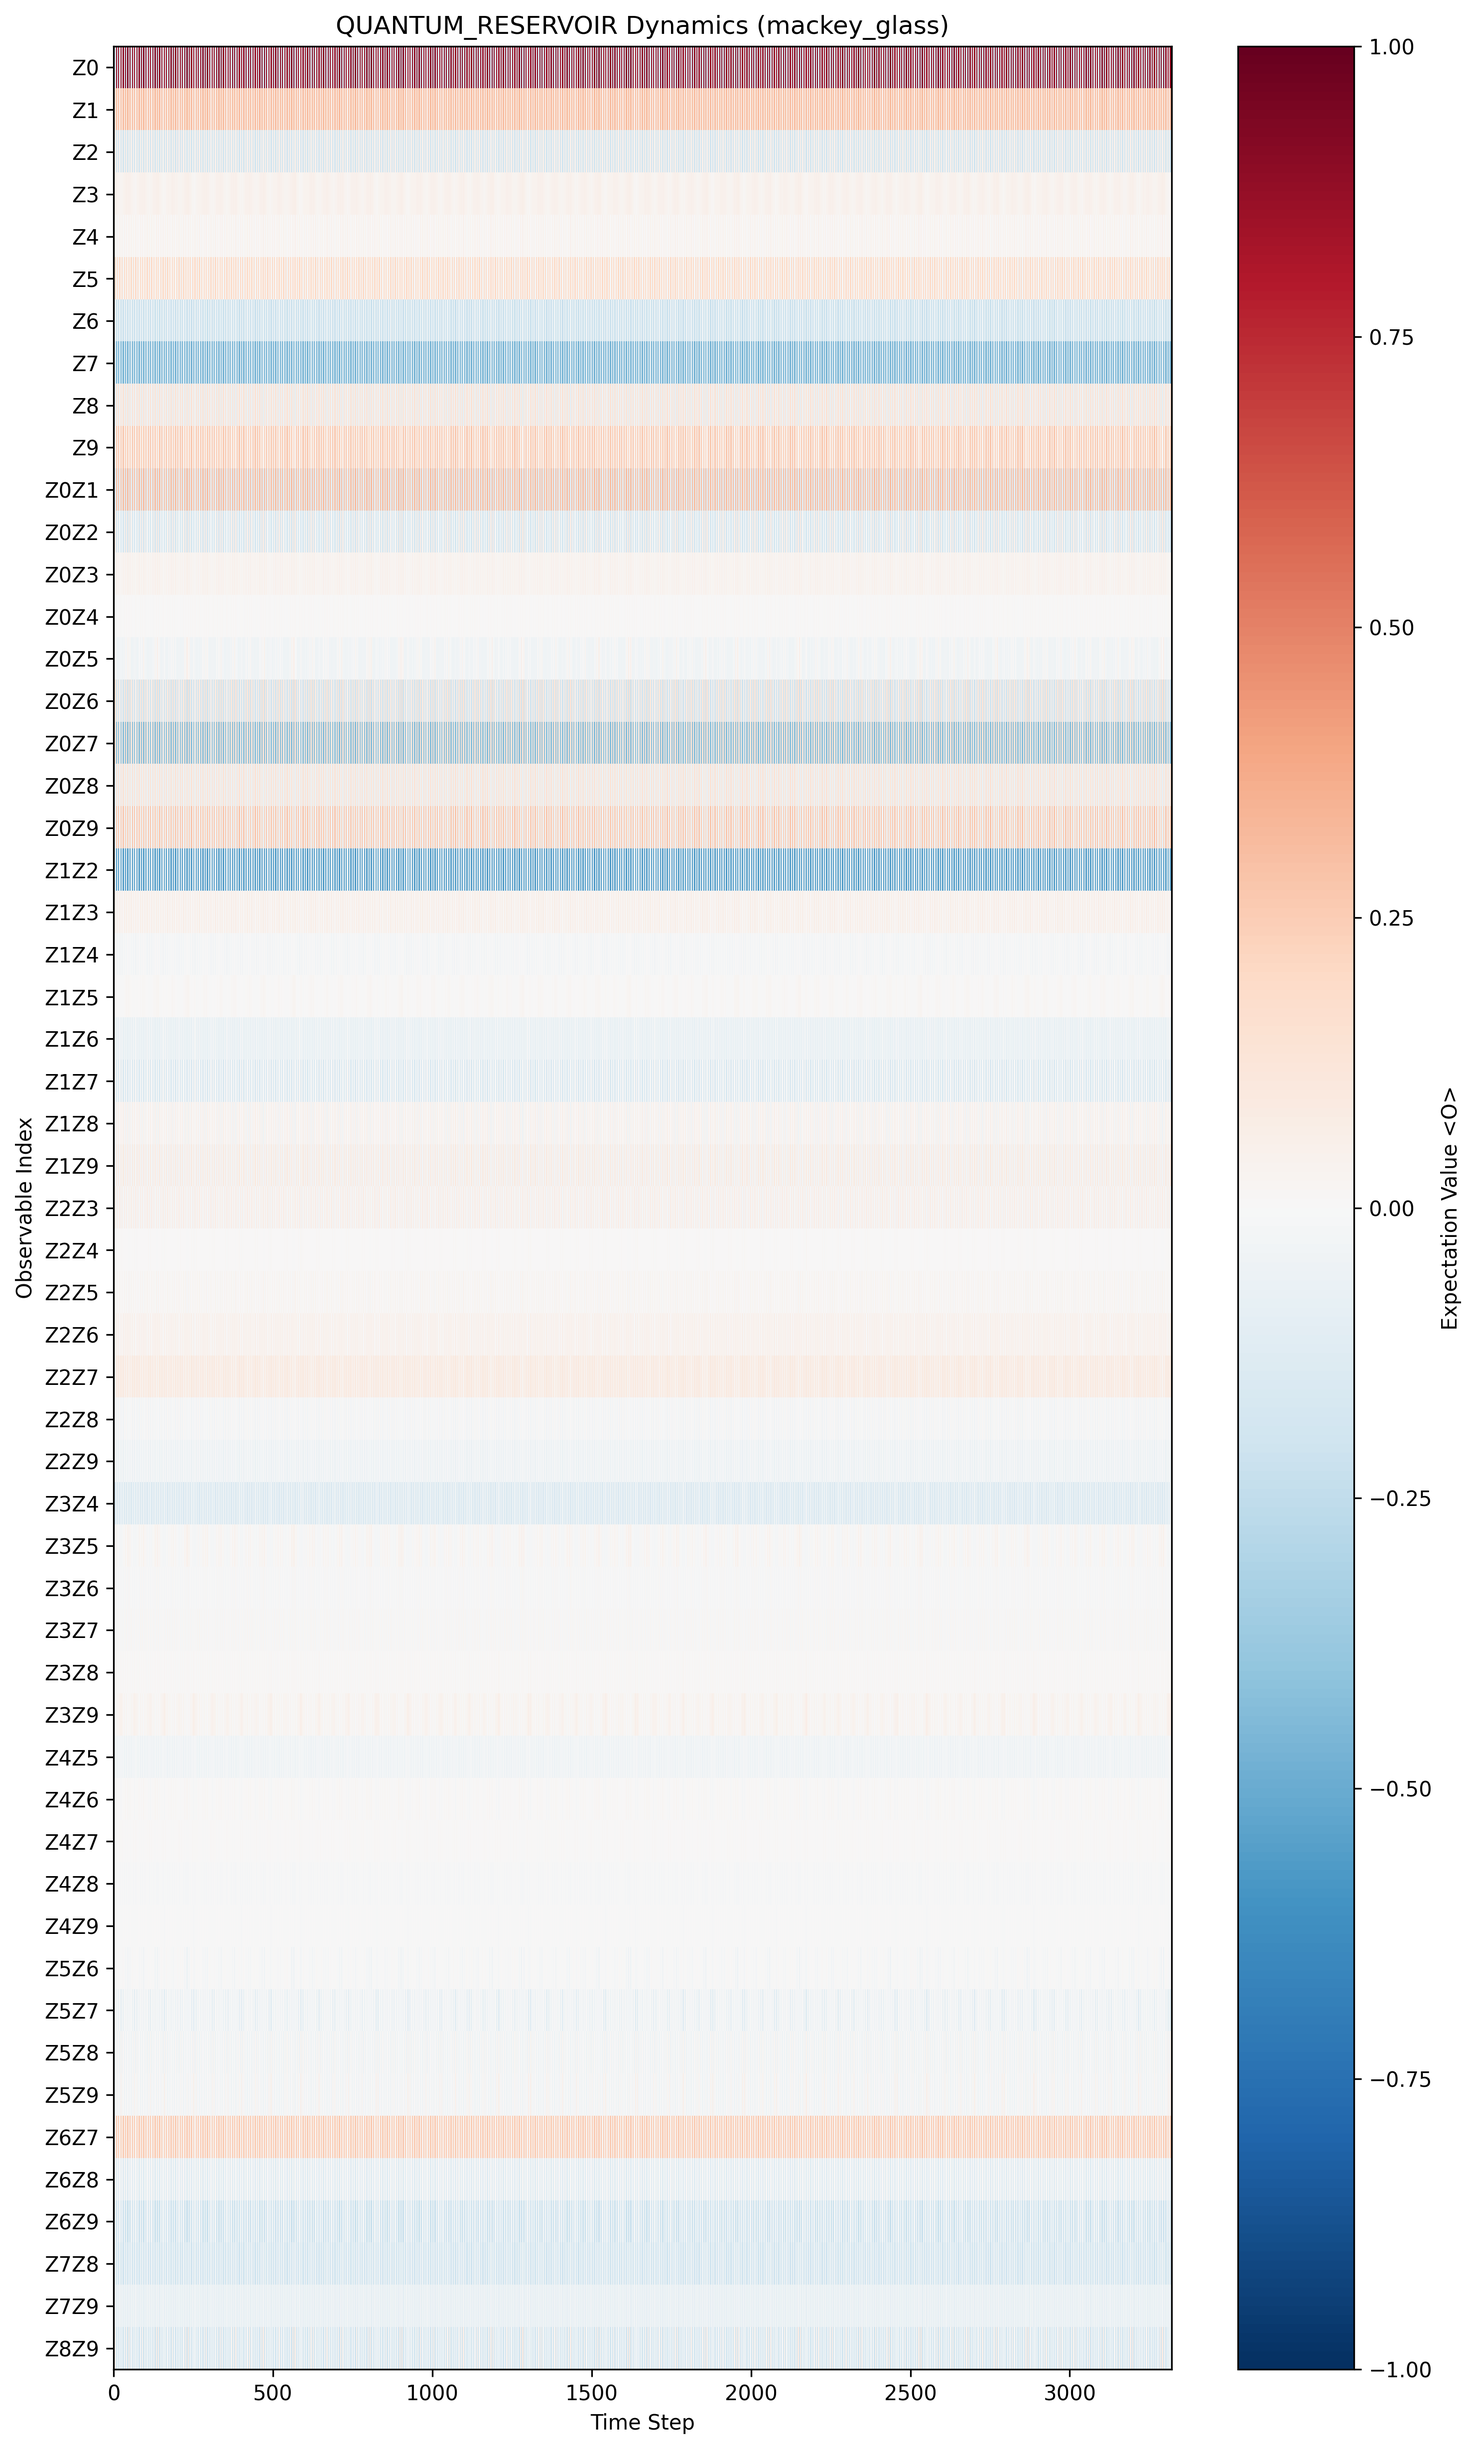
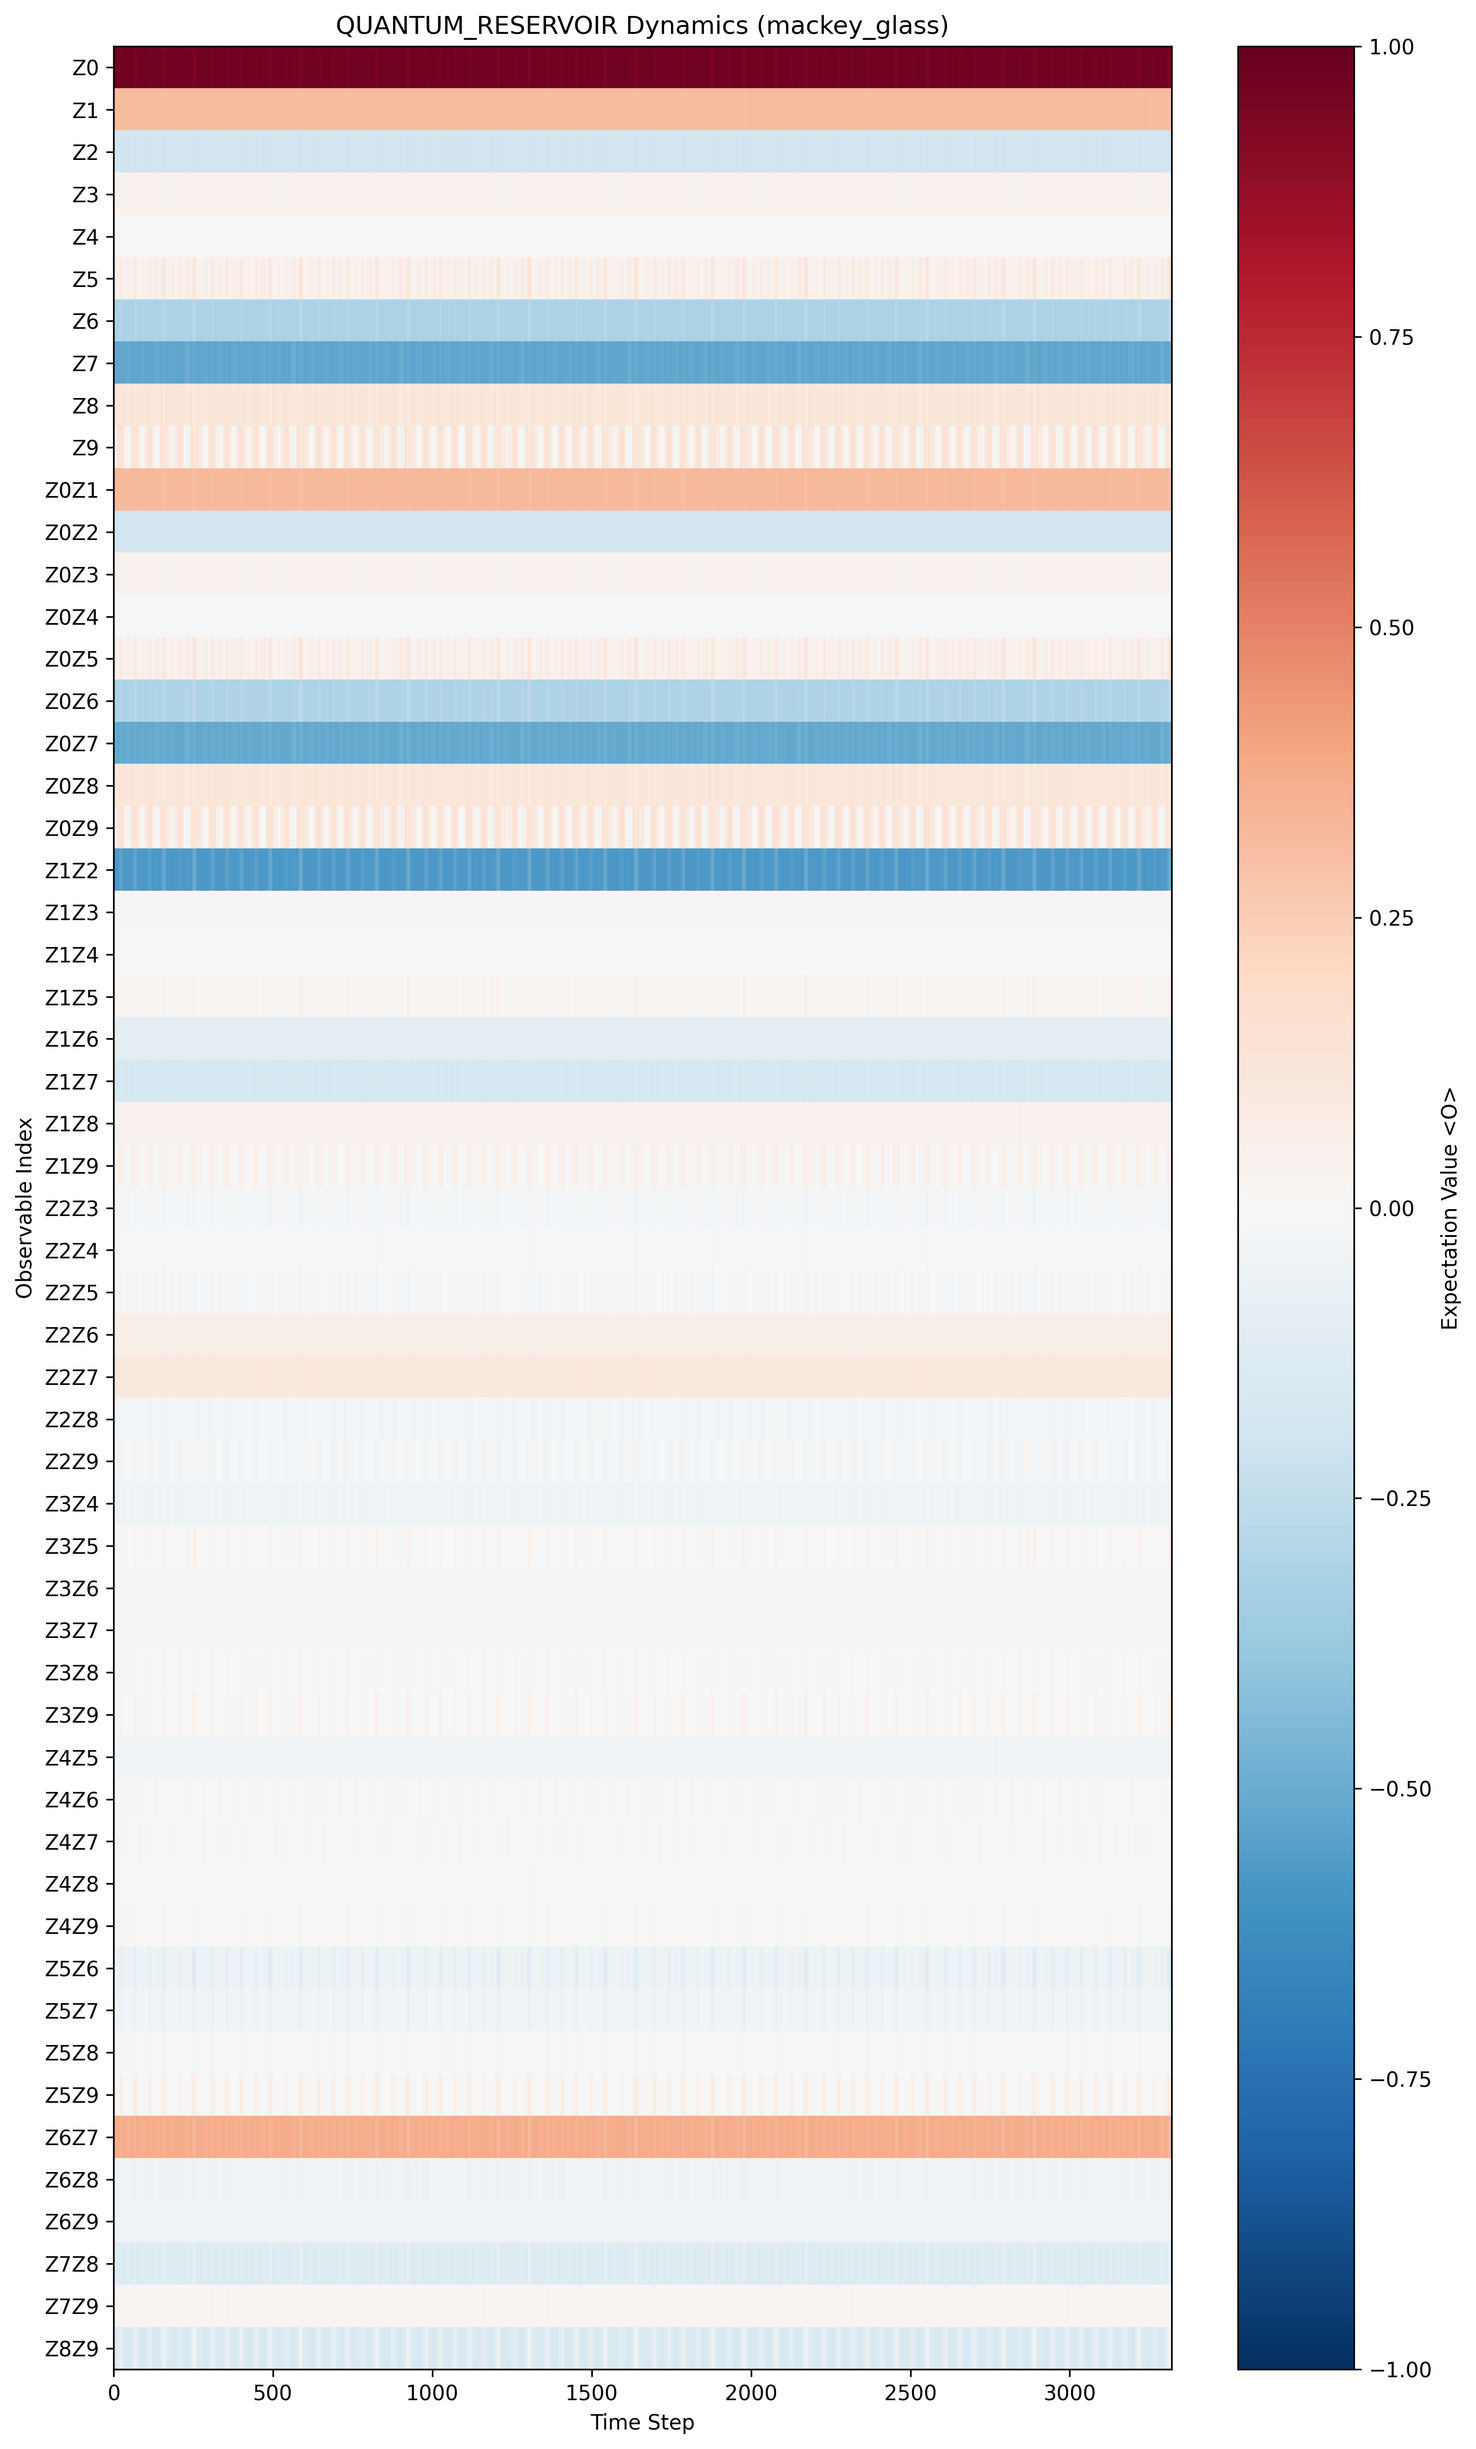
added angle embedding

Changed region(s): [[0.0621, 0.0, 0.8073, 0.3735], [0.0621, 0.8403, 0.8073, 0.9648], [0.0621, 0.4357, 0.8073, 0.4668]]

diff --git a/src/reservoir/models/presets.py b/src/reservoir/models/presets.py
@@ -85,13 +85,6 @@ PCA = PCAProjectionConfig(
     input_scaler = 0.08, # 0.05 67 0.07 68.6 0.08 68.77 0.09 68.29 0.1 68.32 0.15 65.4 0.2 64.4 0.3 62.9% 0.4 61% 0.8 56%
 )
 
-ANGLE_EMBEDDING = AngleEmbeddingConfig(
-    n_units=4,
-    frequency=1.57, #pi /2
-    phase_offset=3.14, #pi
-    seed=1,
-)
-
 #-----------------------------STEP 7-------------------------------------------------------
 
 
@@ -226,9 +219,9 @@ TIME_QUANTUM_RESERVOIR_PRESET = PipelineConfig(
     description="Quantum Gate-Based Reservoir Computing (Time Series)",
     preprocess=StandardScalerConfig(),
     projection=AngleEmbeddingConfig(
-        n_units=4,
-        frequency=1.0,
-        phase_offset=0.0,
+        n_units=16,
+        frequency=0.52, # pi/6
+        phase_offset=0, #pi
         seed=1,
     ),
     model=TIME_QUANTUM_RESERVOIR_DYNAMICS,

diff --git a/src/reservoir/utils/reporting.py b/src/reservoir/utils/reporting.py
@@ -432,12 +432,11 @@ def _infer_filename_parts(topo_meta: Dict[str, Any], training_obj: Any, model_ty
             poly_output = projected_shape[-1] if projected_shape else 0
             filename_parts.append(f"Poly{int(poly_output)}")
         elif proj_type == "pca":
-            n_units = proj_dict.get("n_units", 0)
-            filename_parts.append(f"PCA{int(n_units)}")
+            filename_parts.append(f"PCA{int(proj_units)}")
         elif proj_type == "angle_embedding":
             freq = proj_dict.get("frequency", 0.0)
             phase = proj_dict.get("phase_offset", 0.0)
-            filename_parts.append(f"AEPf{freq}p{phase}")
+            filename_parts.append(f"AEP{int(proj_units)}f{freq}p{phase}")
         elif proj_units:
             filename_parts.append(f"Proj{int(proj_units)}")
 

diff --git a/src/reservoir/pipelines/components/executor.py b/src/reservoir/pipelines/components/executor.py
@@ -46,7 +46,7 @@ class PipelineExecutor:
         
         if train_Z is not None: print_feature_stats(train_Z, "6:Z:train")
         if val_Z is not None: print_feature_stats(val_Z, "6:Z:val")
-        if test_Z is not None: print_feature_stats(test_Z, "6:Z:test")
+        if test_Z is not None : print_feature_stats(test_Z, "6:Z:test")
 
         if train_Z is None:
              raise ValueError("train_Z is None. Execution aborted.")

diff --git a/src/reservoir/models/reservoir/quantum/model.py b/src/reservoir/models/reservoir/quantum/model.py
@@ -13,7 +13,6 @@ from jaxtyping import Float, Array, jaxtyped
 from beartype import beartype
 
 from reservoir.core.identifiers import AggregationMode
-from reservoir.layers.aggregation import StateAggregator
 from reservoir.models.reservoir.base import Reservoir
 from .backend import _ensure_tensorcircuit_initialized
 from .functional import _step_jit, _forward_jit
